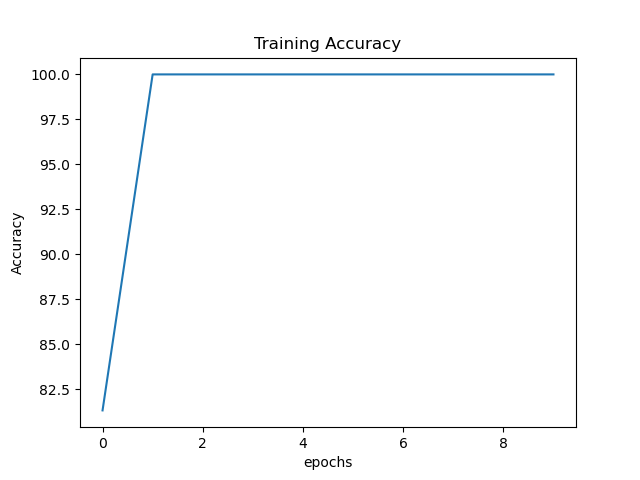
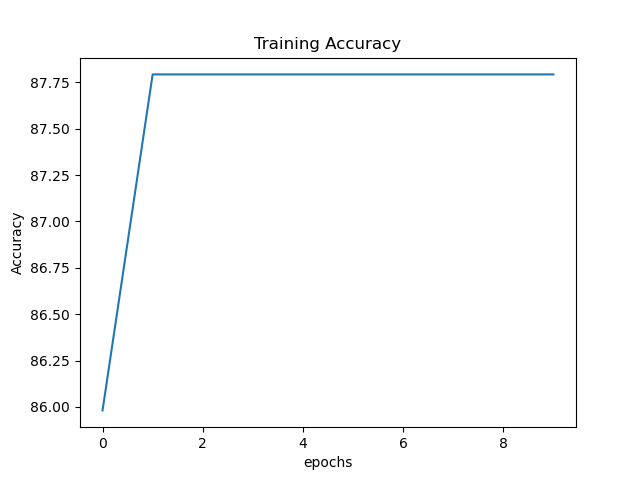
Update README

diff --git a/main.py b/main.py
@@ -180,7 +180,7 @@ def main(model_type):
     data_transforms = {
         'PlainNet': transforms.Compose(
         [transforms.ToTensor(),
-        transforms.Grayscale(num_output_channels=1),
+        transforms.Grayscale(num_output_channels=3),
         transforms.CenterCrop(250)]),
         'ConvBasic': transforms.Compose(
         [ transforms.Grayscale(num_output_channels=3),
@@ -188,7 +188,8 @@ def main(model_type):
         transforms.ToTensor(),
         transforms.Normalize((0.5, 0.5, 0.5), (0.5, 0.5, 0.5))]),
         'TransferLearning': transforms.Compose([
-        transforms.RandomResizedCrop(224),
+        transforms.Grayscale(num_output_channels=3),
+        transforms.RandomResizedCrop(250),
         transforms.RandomHorizontalFlip(),
         transforms.ToTensor(),
         transforms.Normalize([0.485, 0.456, 0.406], [0.229, 0.224, 0.225])])
@@ -206,13 +207,14 @@ def main(model_type):
 
     # Training and testing the model
     PATH = 'weights/' + model_type + '.pth'
-    train_model(transform=data_transforms[model_type], batch_size=batch_size, epochs=10, weights_path=PATH, model_type=model_type, network=models[model_type])
+    train_model(transform=data_transforms[model_type], batch_size=batch_size, epochs=3, weights_path=PATH, model_type=model_type, network=models[model_type])
     test_model(data_transforms[model_type], PATH, batch_size, network=models[model_type])
 
 '''
 Run main and then perform everything
 '''
 if __name__ == '__main__':
-    models = ["PlainNet", "ConvBasic", "TransferLearning"]
-    for model in models:
-        main(model_type=model)
+    main(model_type="TransferLearning")
+    #models = ["PlainNet", "ConvBasic", "TransferLearning"]
+    #for model in models:
+    #    main(model_type=model)

diff --git a/README.md b/README.md
@@ -1,26 +1,10 @@
-# CS 229 Final Project
-By: Chris Pondoc, Joey O'Brien, Joey Guman
+# Seeing Through the Facade: Leveraging Machine Learning to Classify AI-generated and Real Life Images
+By: Chris Pondoc, Joey O'Brien, and Joey Guman
 
-## Proposal:
-Recent research in natural language processing and computer vision has shown progress in image generation from text. Projects such as DALLE-2 [1] and Stable Diffusion [2] are examples of models that have been trained on large language datasets and can create photorealistic images, transfer styles from one image to another, and process complex queries. For some, generative models amplify human creativity by serving as a tool that supercharges the creative processes [3]. However, many others feel that developments will only lead to more problems, such as troubling deepfakes [4], the replacement of human artists by artificial intelligence [5], and disinformation that can be more quickly created and disseminated.
+## Motivation:
+Recent research in natural language processing and computer vision has shown progress in image generation from text. Projects such as DALLE-2 and Stable Diffusion are examples of models that have been trained on large language datasets and can create photorealistic images, transfer styles from one image to another, and process complex queries. For some, generative models amplify human creativity by serving as a tool that supercharges the creative processes. However, many others feel that developments will only lead to more problems, such as troubling deepfakes, the replacement of human artists by artificial intelligence, and disinformation that can be more quickly created and disseminated.
 
-Our project aims to build a binary classifier that distinguishes between real and generative images. In practice, our work could be applied to help tag disinformation at scale on social media platforms. We’ll attempt various approaches to build our classifier, starting by building our own convolutional neural network (CNN) from scratch. We can also employ the methodology of transfer learning [6], which will take a model previously trained on another classification task and apply it to this task. Finally, we can also delve into the world of generative adversarial networks (GANs) [7] and focus on the half that distinguishes between the training and generative data.
+Thus, in the context of these malicious application, our project aims to build a binary classifier between real and generative images. In practice, our work could be applied to help tag disinformation and deepfakes around the Internet. During the process, we will employ various methodologies, including building our convolutional neural network (CNN), using transfer learning to catalyze state of the art architectures, and deconstruct generative adversarial networks (GANs).
 
-In developing our classifier, we will run numerous particular experiments, especially in the context of our training and test data. More specifically, the main question will revolve around how to create the most balanced dataset between real and generative images. By scraping Google and other search engines, we could leverage existing large datasets, such as ImageNet [8], or have more parity between the prompts and the real images. When evaluating our neural network’s progress, we intend to analyze both in terms of overall accuracy and tackling key sets of images, such as humans, animals, or other subjects.
-
-## Sources:
-[1] https://openai.com/dall-e-2/
-
-[2] https://arxiv.org/abs/2112.10752
-
-[3] https://www.linkedin.com/pulse/blitzscaling-creativity-dall-e-reid-hoffman/
-
-[4] https://techcrunch.com/2022/08/24/deepfakes-for-all-uncensored-ai-art-model-prompts-ethics-questions/
-
-[5] https://artofericwayne.com/2022/05/31/will-ai-replace-human-artists/
-
-[6] https://machinelearningmastery.com/transfer-learning-for-deep-learning/
-
-[7] https://arxiv.org/abs/1406.2661
-
-[8] https://www.image-net.org/
+## To Run
+`python3 main.py`
